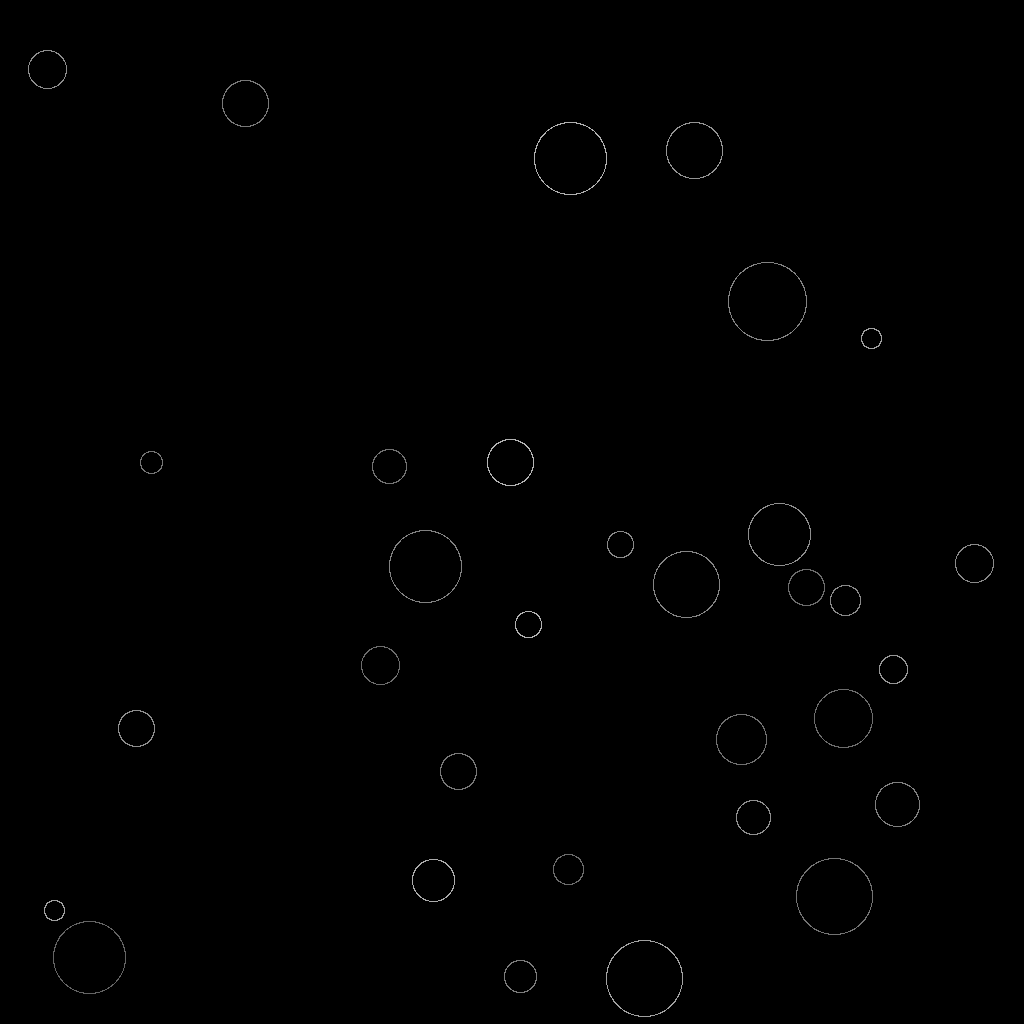
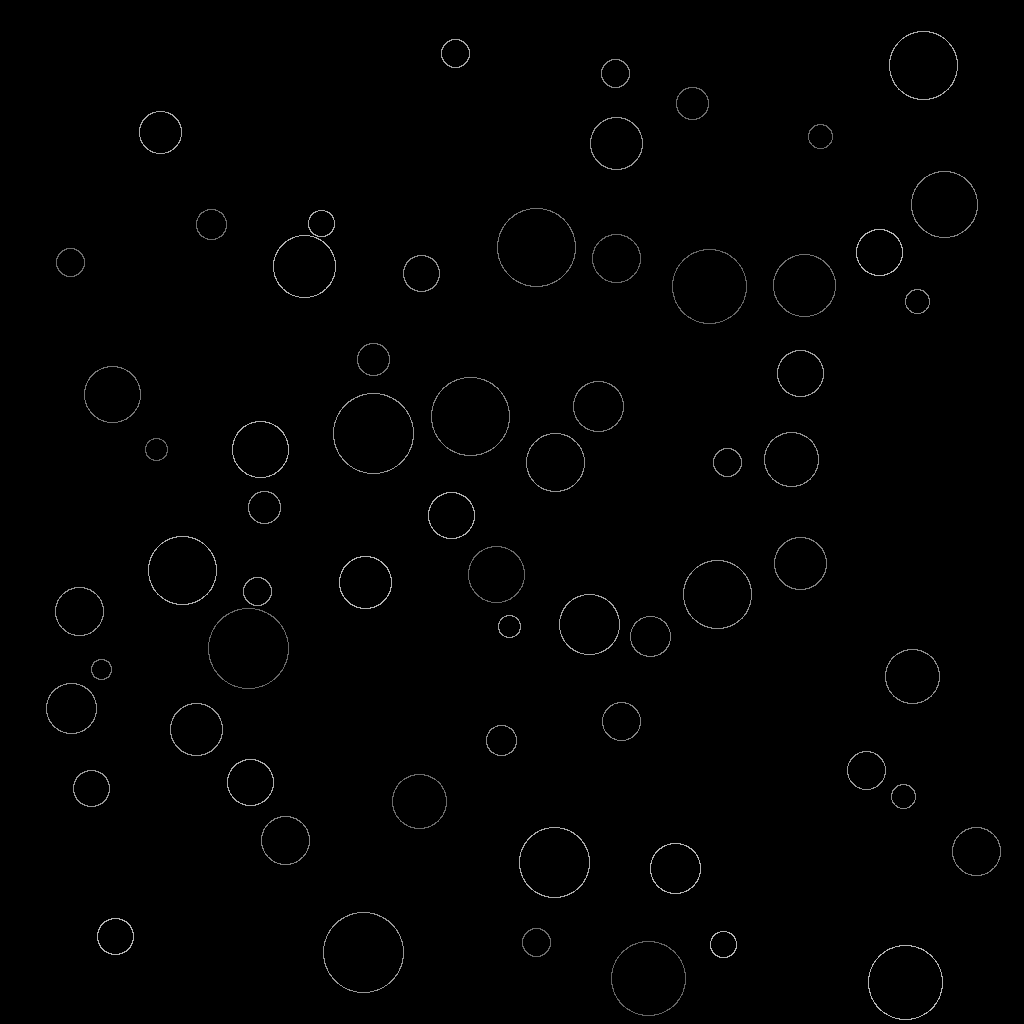
circle testing, just change n

Changed region(s): [[0.7812, 0.5625, 0.8125, 0.5938], [0.5, 0.5938, 0.5312, 0.625], [0.0938, 0.9062, 0.125, 0.9375]]

diff --git a/Homework 2/hw2sandbox.m b/Homework 2/hw2sandbox.m
@@ -7,23 +7,24 @@ temp = zeros(1024, 1024, 'uint8'); %for manipulating
 
 angles = linspace(0, 2*pi, 500); %don't need this in the loop, won't change
 succDrawn = 0;
+n = 64; %NUMBER OF CIRCLES
 
 %until we have drawn [16] circles
-while succDrawn < 32
+while succDrawn < n
     
     
     badCenters = true;
     while badCenters == true
         %random x centers
-        centerx = randi([40,984], 1, 32); 
+        centerx = randi([40,984], 1, n); 
         %random y centers
-        centery = randi([40,984], 1, 32);
+        centery = randi([40,984], 1, n);
         
         %check spacing of centers to ensure no concentric circles
         badCenters = false;
         d = 100000;
-        for i=1:1:32
-           for j=1:1:32
+        for i=1:1:n
+           for j=1:1:n
                if i ~= j
                    d = sqrt((centerx(j)-centerx(i))^2 + (centery(j)-centery(i))^2);
                end
@@ -42,7 +43,7 @@ while succDrawn < 32
 
 
     
-    for i = 1:1:32 %for each center
+    for i = 1:1:n %for each center
        %attempt to draw circle
        x = centerx(i);
        y = centery(i);
@@ -74,7 +75,7 @@ while succDrawn < 32
        end
        
        
-       if (succDrawn == 32)
+       if (succDrawn == n)
            break
        end
     end
